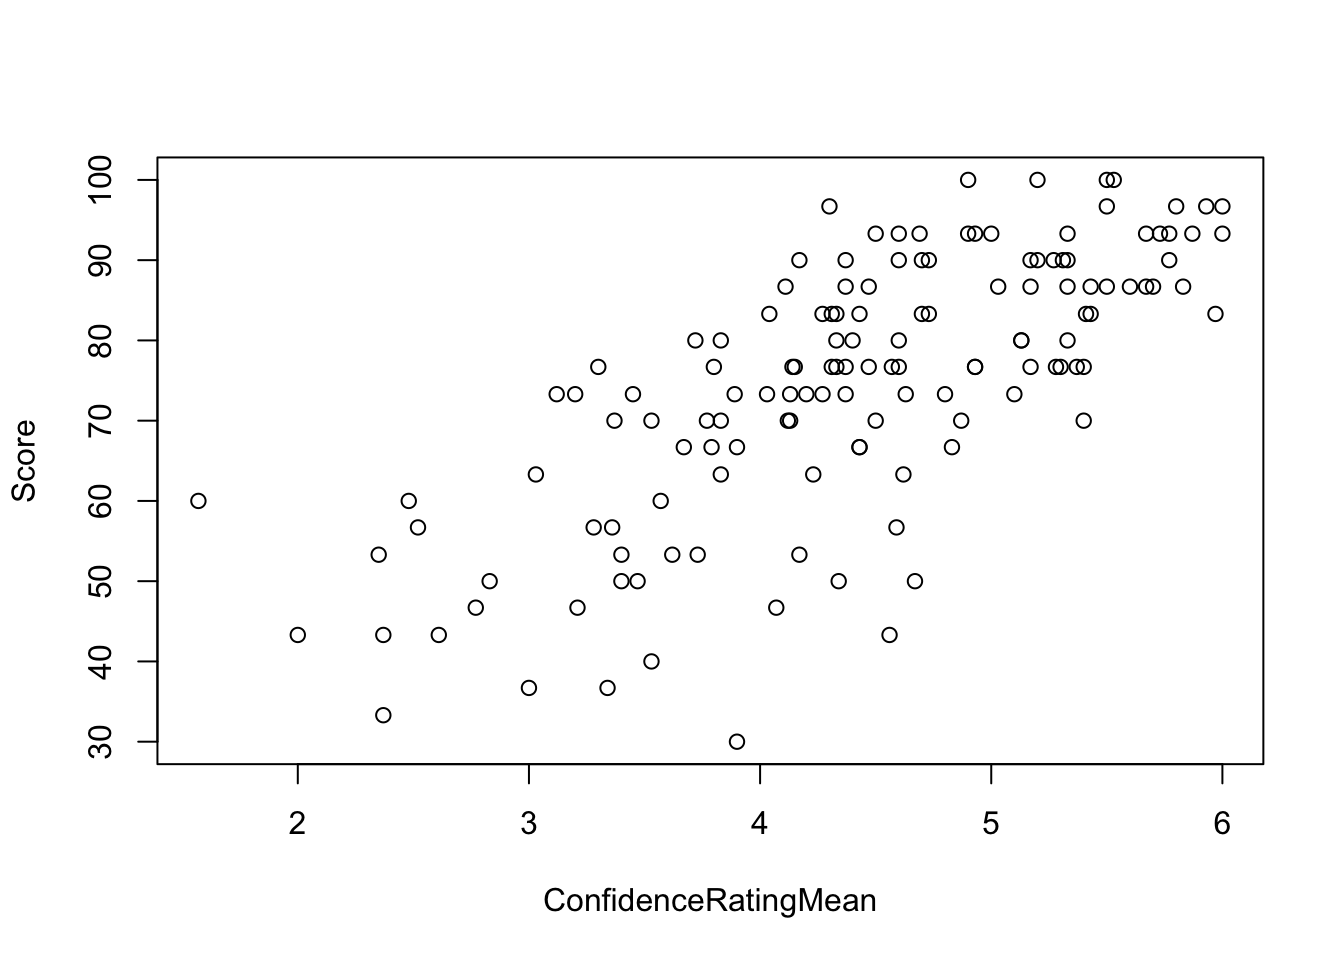
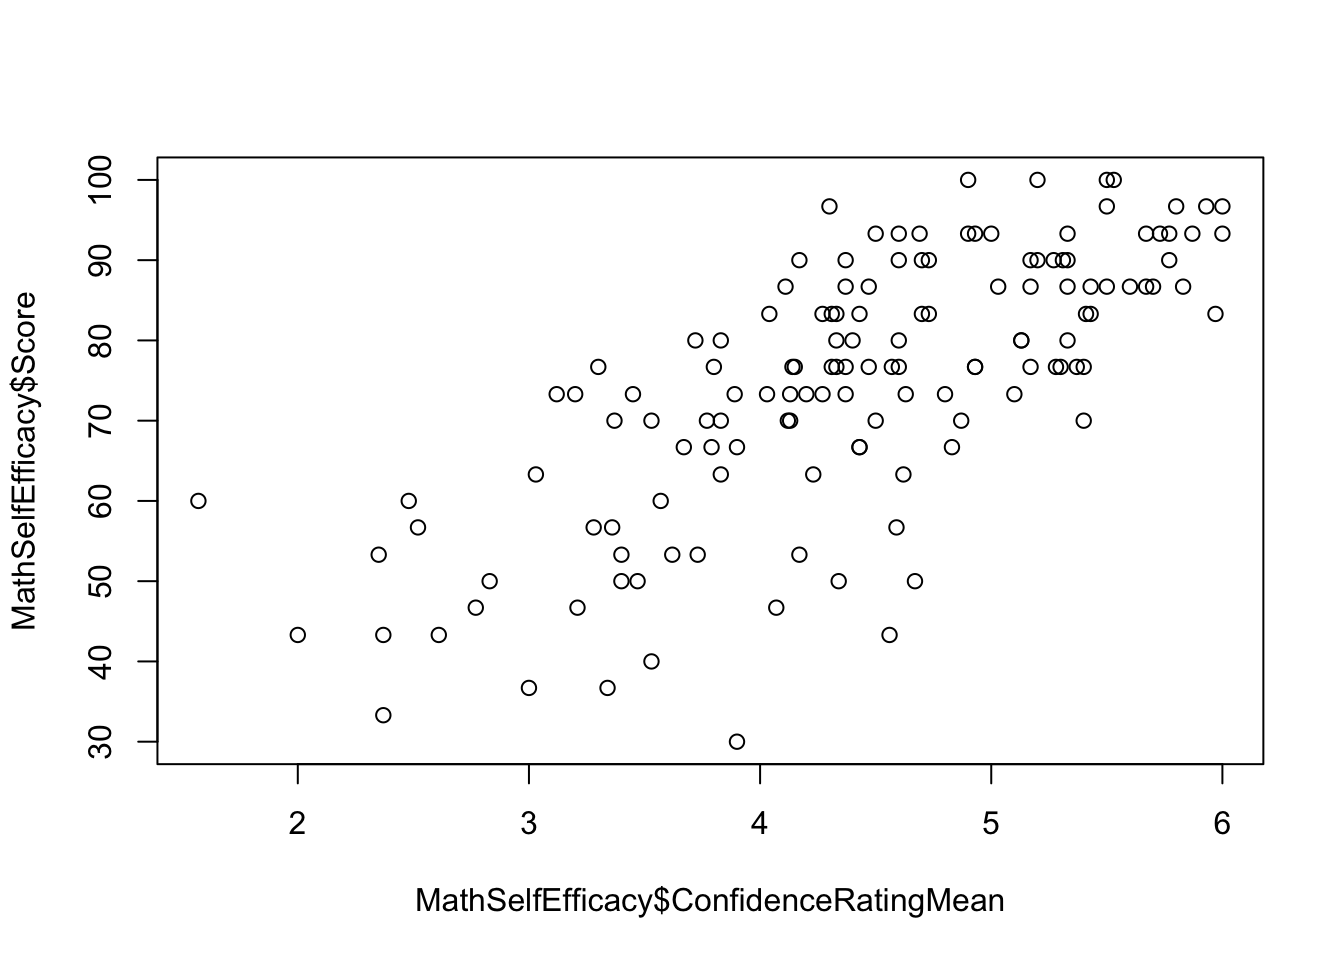
Typo in R Instructions for Lesson 21

Changed region(s): [[0.3125, 0.9062, 0.75, 0.9688], [0.0, 0.3125, 0.0312, 0.6562]]

diff --git a/docs/Lesson21.html b/docs/Lesson21.html
@@ -470,7 +470,7 @@ R Instructions
 <div class="Software">
 <p><strong>To create a scatterplot in R</strong> use the <code>plot(...)</code> function with the <code>y-variable</code> placed first, followed by a <code>~</code>, followed by the <code>x-variable</code>.</p>
 <p>First, read in the data: <a href="./Data/MathSelfEfficacy.xlsx">MathSelfEfficacy.xlsx</a>. (<a href="RHelp.html#reading-in-data">Click here</a> for a reminder on how to read in data.) Then, run the code:</p>
-<pre class="r"><code>plot(Score ~ ConfidenceRatingMean, data=MathSelfEfficacy)</code></pre>
+<pre class="r"><code>plot(MathSelfEfficacy$Score ~ MathSelfEfficacy$ConfidenceRatingMean)</code></pre>
 <p><img src="Lesson21_files/figure-html/unnamed-chunk-2-1.png" width="672" /></p>
 <p>Of course, it is good practice to provide some color and better labeling with any plot. To do that, use the options of</p>
 <ul>
@@ -481,7 +481,7 @@ R Instructions
 <li><code>main=</code> to specify in quotations the main title of the graph.</li>
 </ul>
 <p>These options are demonstrated below.</p>
-<pre class="r"><code>plot(Score ~ ConfidenceRatingMean, data=MathSelfEfficacy,
+<pre class="r"><code>plot(MathSelfEfficacy$Score ~ MathSelfEfficacy$ConfidenceRatingMean,
      col=&quot;skyblue&quot;, #specify the color
      pch=16, #choose a plotting symbol, options are 1, 2, ..., 25.
      xlab=&quot;Mean Confidence Rating for Each Student&quot;,
